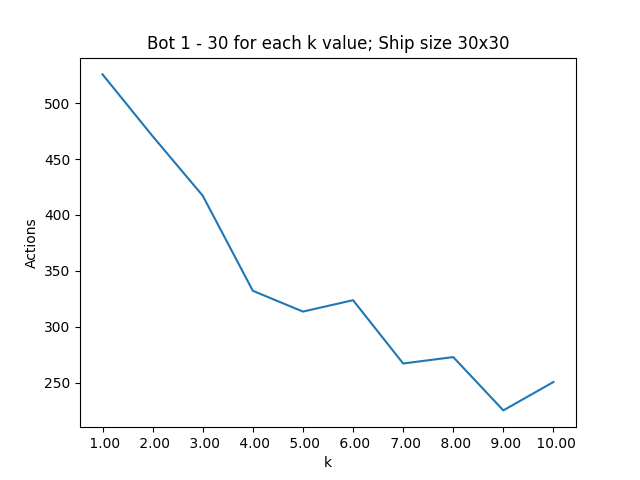
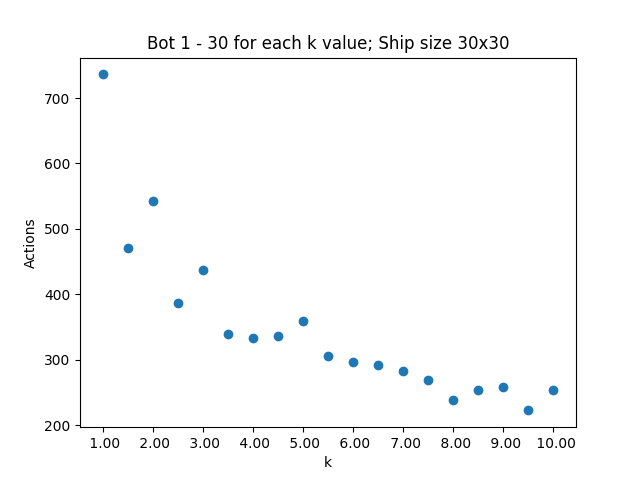
Added probabilistic benchmark
Also added floor to deterministic bots to allow for 0.5 k value incrementation.

diff --git a/code/benchmark/bench_mark_test.py b/code/benchmark/bench_mark_test.py
@@ -28,7 +28,7 @@ class BenchMarkTest():
         if self.k_range:
             self.run_deterministic_bot()
         elif self.alpha_range:
-            self.run_alpha_range()
+            self.run_probabilistic_bot()
         else:
             logging.error("[BENCHMARK]: No range provided for bench mark test")
             exit(1)
@@ -51,7 +51,7 @@ class BenchMarkTest():
             k += k_step
 
         _, axis = plt.subplots()
-        
+
         axis.set_title(
             f"{self.bot} - {self.itr} for each k value; Ship size {self.d}x{self.d}")
         axis.set_ylabel('Actions')
@@ -60,7 +60,39 @@ class BenchMarkTest():
         axis.xaxis.set_major_locator(MultipleLocator(1))
         axis.xaxis.set_major_formatter(FormatStrFormatter('% 1.2f'))
 
-        axis.plot(k_values, actions_axis)
+        axis.scatter(k_values, actions_axis)
+        plt.savefig(
+            f"benchmark/graphs/{self.bot}-ITR({self.itr})D({self.d})")
+        plt.clf()
+
+    def run_probabilistic_bot(self):
+        actions_axis = []
+        (alpha_start, alpha_end), alpha_step = self.alpha_range
+
+        alpha_values = []
+        alpha = alpha_start
+        while alpha <= alpha_end:
+            benchmark = BenchmarkAssessment(
+                iterations=self.itr, bot_variant=self.bot, d=self.d, alpha=alpha).run()
+            actions_list = []
+            for game_result in benchmark:
+                actions_list.append(game_result.actions)
+
+            actions_axis.append(statistics.mean(actions_list))
+            alpha_values.append(alpha)
+            alpha += alpha_step
+
+        _, axis = plt.subplots()
+
+        axis.set_title(
+            f"{self.bot} - {self.itr} for each alpha value; Ship size {self.d}x{self.d}")
+        axis.set_ylabel('Actions')
+        axis.set_xlabel('alpha')
+
+        axis.xaxis.set_major_locator(MultipleLocator(1))
+        axis.xaxis.set_major_formatter(FormatStrFormatter('% 1.2f'))
+
+        axis.scatter(alpha_values, actions_axis)
         plt.savefig(
             f"benchmark/graphs/{self.bot}-ITR({self.itr})D({self.d})")
         plt.clf()

diff --git a/code/ship/ship.py b/code/ship/ship.py
@@ -1,4 +1,5 @@
 import logging
+from math import floor
 from .seed import Seed
 from typing import List
 from config import Cell
@@ -182,10 +183,10 @@ class Ship:
             bot_row, bot_col = self.bot.bot_location
             restricted = set()
 
-            top, bottom = max(
-                0, bot_row - self.bot.k), min(self.D, bot_row + self.bot.k + 1)
-            left, right = max(
-                0, bot_col - self.bot.k), min(self.D, bot_col + self.bot.k + 1)
+            top, bottom = floor(max(
+                0, bot_row - self.bot.k)), floor(min(self.D, bot_row + self.bot.k + 1))
+            left, right = floor(max(
+                0, bot_col - self.bot.k)), floor(min(self.D, bot_col + self.bot.k + 1))
 
             if abs(top - bottom) == self.D and abs(left - right) == self.D:
                 if top > bottom:
@@ -232,10 +233,10 @@ class Ship:
                 bot_row, bot_col = self.bot.bot_location
                 restricted = set()
 
-                top, bottom = max(
-                    0, bot_row - self.bot.k), min(self.D, bot_row + self.bot.k + 1)
-                left, right = max(
-                    0, bot_col - self.bot.k), min(self.D, bot_col + self.bot.k + 1)
+                top, bottom = floor(max(
+                    0, bot_row - self.bot.k)), floor(min(self.D, bot_row + self.bot.k + 1))
+                left, right = floor(max(
+                    0, bot_col - self.bot.k)), floor(min(self.D, bot_col + self.bot.k + 1))
                 for row in range(top, bottom):
                     for col in range(left, right):
                         restricted.add((row, col))

diff --git a/code/bots/deterministic_bots/bot_six.py b/code/bots/deterministic_bots/bot_six.py
@@ -1,4 +1,5 @@
 import logging
+from math import floor
 from .deterministic_bot import DeterministicBot
 from typing import Tuple, List, Optional
 from config import Bots, Cell
@@ -13,7 +14,7 @@ class BotSix(DeterministicBot):
         self.variant = Bots.BOT6
         self.leak_found = False
         self.leaks_plugged = 0
-        self.leak_locations = set()
+        self.leak_locations = []
 
         logging.info(f"Bot variant: {self.variant}")
         logging.info(f"K value: {self.k}")
@@ -55,8 +56,10 @@ class BotSix(DeterministicBot):
     def sense(self) -> None:
         r, c = self.bot_location
         # Calculate the bounds of the square
-        top, bottom = max(0, r - self.k), min(self.D, r + self.k + 1)
-        left, right = max(0, c - self.k), min(self.D, c + self.k + 1)
+        top, bottom = floor(
+            max(0, r - self.k)), floor(min(self.D, r + self.k + 1))
+        left, right = floor(
+            max(0, c - self.k)), floor(min(self.D, c + self.k + 1))
 
         # Loop through each row of the square
         for row in range(top, bottom):

diff --git a/code/bots/deterministic_bots/bot_five.py b/code/bots/deterministic_bots/bot_five.py
@@ -1,4 +1,5 @@
 import logging
+from math import floor
 from .deterministic_bot import DeterministicBot
 from typing import Tuple, List, Optional
 from config import Bots, Cell
@@ -14,7 +15,7 @@ class BotFive(DeterministicBot):
         super().__init__(k)
         self.variant = Bots.BOT5
         self.leaks_plugged = 0
-        self.leak_locations = set()
+        self.leak_locations = []
 
         logging.info(f"Bot variant: {self.variant}")
         logging.info(f"K value: {self.k}")
@@ -50,8 +51,10 @@ class BotFive(DeterministicBot):
         r, c = self.bot_location
         leak_found = False
         # Calculate the bounds of the square
-        top, bottom = max(0, r - self.k), min(self.D, r + self.k + 1)
-        left, right = max(0, c - self.k), min(self.D, c + self.k + 1)
+        top, bottom = floor(
+            max(0, r - self.k)), floor(min(self.D, r + self.k + 1))
+        left, right = floor(
+            max(0, c - self.k)), floor(min(self.D, c + self.k + 1))
 
         # Loop through each row of the square
         for row in range(top, bottom):

diff --git a/code/bots/deterministic_bots/bot_two.py b/code/bots/deterministic_bots/bot_two.py
@@ -1,4 +1,5 @@
 import logging
+from math import floor
 from .deterministic_bot import DeterministicBot
 from typing import Tuple, List, Optional
 from config import Bots, Cell
@@ -48,8 +49,10 @@ class BotTwo(DeterministicBot):
     def sense(self) -> None:
         r, c = self.bot_location
         # Calculate the bounds of the square
-        top, bottom = max(0, r - self.k), min(self.D, r + self.k + 1)
-        left, right = max(0, c - self.k), min(self.D, c + self.k + 1)
+        top, bottom = floor(
+            max(0, r - self.k)), floor(min(self.D, r + self.k + 1))
+        left, right = floor(
+            max(0, c - self.k)), floor(min(self.D, c + self.k + 1))
 
         # Loop through each row of the square
         for row in range(top, bottom):

diff --git a/code/bots/deterministic_bots/bot_one.py b/code/bots/deterministic_bots/bot_one.py
@@ -1,4 +1,5 @@
 import logging
+from math import floor
 from .deterministic_bot import DeterministicBot
 from typing import Tuple, List, Optional
 from config import Bots, Cell
@@ -62,8 +63,10 @@ class BotOne(DeterministicBot):
         r, c = self.bot_location
         leak_found = False
         # Calculate the bounds of the square
-        top, bottom = max(0, r - self.k), min(self.D, r + self.k + 1)
-        left, right = max(0, c - self.k), min(self.D, c + self.k + 1)
+        top, bottom = floor(
+            max(0, r - self.k)), floor(min(self.D, r + self.k + 1))
+        left, right = floor(
+            max(0, c - self.k)), floor(min(self.D, c + self.k + 1))
 
         # Loop through each row of the square
         for row in range(top, bottom):

diff --git a/code/main.py b/code/main.py
@@ -9,10 +9,11 @@ if __name__ == '__main__':
     # single_seed = Seed("input/single_leak_seed.csv")
     # multi_seed = Seed("input/multi_leak_seed.csv", multi_leaks=True)
 
-    # GameBuilder()\
-    #     .add_ship(D=10, seed=None)\
-    #     .add_bot(bot=Bots.BOT1, k=5)\
-    #     .build()\
-    #     .play(output_traversal=False)
+    GameBuilder()\
+        .add_ship(D=30, seed=None)\
+        .add_bot(bot=Bots.BOT3, alpha=0.0)\
+        .build()\
+        .play(output_traversal=False)
 
-    BenchMarkTest(itr=30, d=30, bot=Bots.BOT1, k_range=[(1, 10), 1]).run()
+    # BenchMarkTest(itr=1, d=20, bot=Bots.BOT3,
+    #               alpha_range=[(0.0, 0.1), 0.005]).run()
